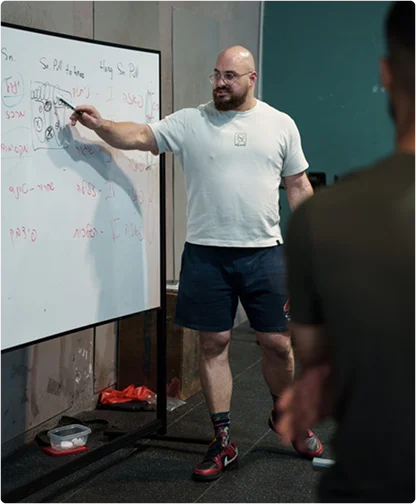
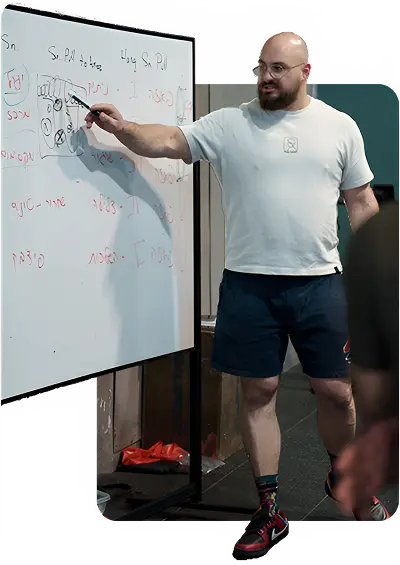
Replace images in GymOwners and WhySeminar sections, update Hero section image styling, and remove unused david-sitting.png file.

diff --git a/src/components/sections/GymOwners.tsx b/src/components/sections/GymOwners.tsx
@@ -4,9 +4,28 @@ const GymOwners: React.FC = () => {
   return (
     <section className="bg-bg-primary text-text-primary py-16 lg:py-24 relative overflow-hidden">
       <div className="mx-auto px-4 max-w-[1200px]">
-        <div className="grid grid-cols-1 lg:grid-cols-2 gap-12 items-center">
-          {/* Content Side */}
-          <div className="order-2 lg:order-1">
+        <div className="flex flex-col lg:flex-row gap-8 lg:gap-12 items-center" dir="ltr">
+          {/* Image Side - Left */}
+          <div className="flex-shrink-0">
+            <div className="aspect-square lg:aspect-auto lg:h-[500px] lg:w-[400px] rounded-2xl overflow-hidden bg-gray-800 relative">
+              <picture>
+                <source srcSet="/images/david-teaching.webp" type="image/webp" />
+                <img 
+                  src="/images/david-teaching.webp"
+                  alt="דוד ליטבינוב מלמד ומדריך באימון קבוצתי"
+                  className="w-full h-full object-cover"
+                />
+              </picture>
+              
+              {/* Overlay Badge */}
+              <div className="absolute top-6 right-6 bg-cta text-bg-primary px-4 py-2 rounded-lg font-rubik font-bold text-lg shadow-lg">
+                שותפות רווחית
+              </div>
+            </div>
+          </div>
+
+          {/* Content Side - Right */}
+          <div className="flex-1 text-center lg:text-right" dir="rtl">
             {/* Title */}
             <h2 className="font-rubik text-4xl md:text-5xl lg:text-6xl font-bold mb-6">
               יש לכם חדר כושר או סטודיו?
@@ -87,22 +106,6 @@ const GymOwners: React.FC = () => {
             <button className="bg-cta hover:bg-yellow-600 text-bg-primary font-rubik font-medium px-8 py-4 rounded-lg text-lg transition-colors">
               למידע נוסף
             </button>
-          </div>
-
-          {/* Image Side */}
-          <div className="order-1 lg:order-2">
-            <div className="relative">
-              <img 
-                src="https://images.unsplash.com/photo-1571019613454-1cb2f99b2d8b?ixlib=rb-4.0.3&auto=format&fit=crop&w=600&h=400" 
-                alt="סטודיו כושר עם אימון קבוצתי"
-                className="w-full h-96 object-cover rounded-2xl shadow-2xl"
-              />
-              
-              {/* Overlay Badge */}
-              <div className="absolute top-6 right-6 bg-cta text-bg-primary px-4 py-2 rounded-lg font-rubik font-bold text-lg shadow-lg">
-                שותפות רווחית
-              </div>
-            </div>
           </div>
         </div>
       </div>

diff --git a/src/components/sections/WhySeminar.tsx b/src/components/sections/WhySeminar.tsx
@@ -18,11 +18,14 @@ const WhySeminar: React.FC = () => {
           {/* Left Image - Rotated 14 degrees */}
           <div className="order-2 lg:order-1 flex justify-center">
             <div className="relative">
-              <img 
-                src="https://images.unsplash.com/photo-1581009146145-b5ef050c2e1e?ixlib=rb-4.0.3&auto=format&fit=crop&w=400&h=500" 
-                alt="אימון אישי בהרמת משקולות"
-                className="w-80 h-96 object-cover rounded-lg shadow-2xl transform rotate-[14deg]"
-              />
+              <picture>
+                <source srcSet="/images/david-instructing.webp" type="image/webp" />
+                <img 
+                  src="/images/david-instructing.webp"
+                  alt="דוד ליטבינוב מדריך ומסביר טכניקה"
+                  className="w-80 h-96 object-cover rounded-lg shadow-2xl transform rotate-[14deg]"
+                />
+              </picture>
             </div>
           </div>
 
@@ -68,11 +71,14 @@ const WhySeminar: React.FC = () => {
           {/* Right Image - Rotated -14 degrees */}
           <div className="order-3 lg:order-3 flex justify-center">
             <div className="relative">
-              <img 
-                src="https://images.unsplash.com/photo-1574680096145-d05b474e2155?ixlib=rb-4.0.3&auto=format&fit=crop&w=400&h=500" 
-                alt="קבוצת אימון הרמת משקולות"
-                className="w-80 h-96 object-cover rounded-lg shadow-2xl transform rotate-[-14deg]"
-              />
+              <picture>
+                <source srcSet="/images/workshop.webp" type="image/webp" />
+                <img 
+                  src="/images/workshop.webp"
+                  alt="סדנת הרמת משקולות בפעולה"
+                  className="w-80 h-96 object-cover rounded-lg shadow-2xl transform rotate-[-14deg]"
+                />
+              </picture>
             </div>
           </div>
         </div>

diff --git a/src/components/sections/Hero.tsx b/src/components/sections/Hero.tsx
@@ -46,13 +46,13 @@ const Hero: React.FC = () => {
 
           {/* Image - Right Side */}
           <div className="flex-1 lg:flex-[2.2] relative">
-            <div className="aspect-square lg:aspect-auto lg:h-[500px] lg:w-[400px] rounded-2xl overflow-hidden bg-gray-800">
+            <div className="aspect-square lg:aspect-auto lg:h-[514px] lg:w-[364px] rounded-2xl overflow-hidden">
               <picture>
                 <source srcSet="/images/david-hero.webp" type="image/webp" />
                 <img 
                   src="/images/david-hero.webp"
                   alt="דוד ליטבינוב מסביר טכניקה על הלוח"
-                  className="w-full h-full object-cover"
+                  className="w-full h-full object-contain"
                   loading="lazy"
                 />
               </picture>
